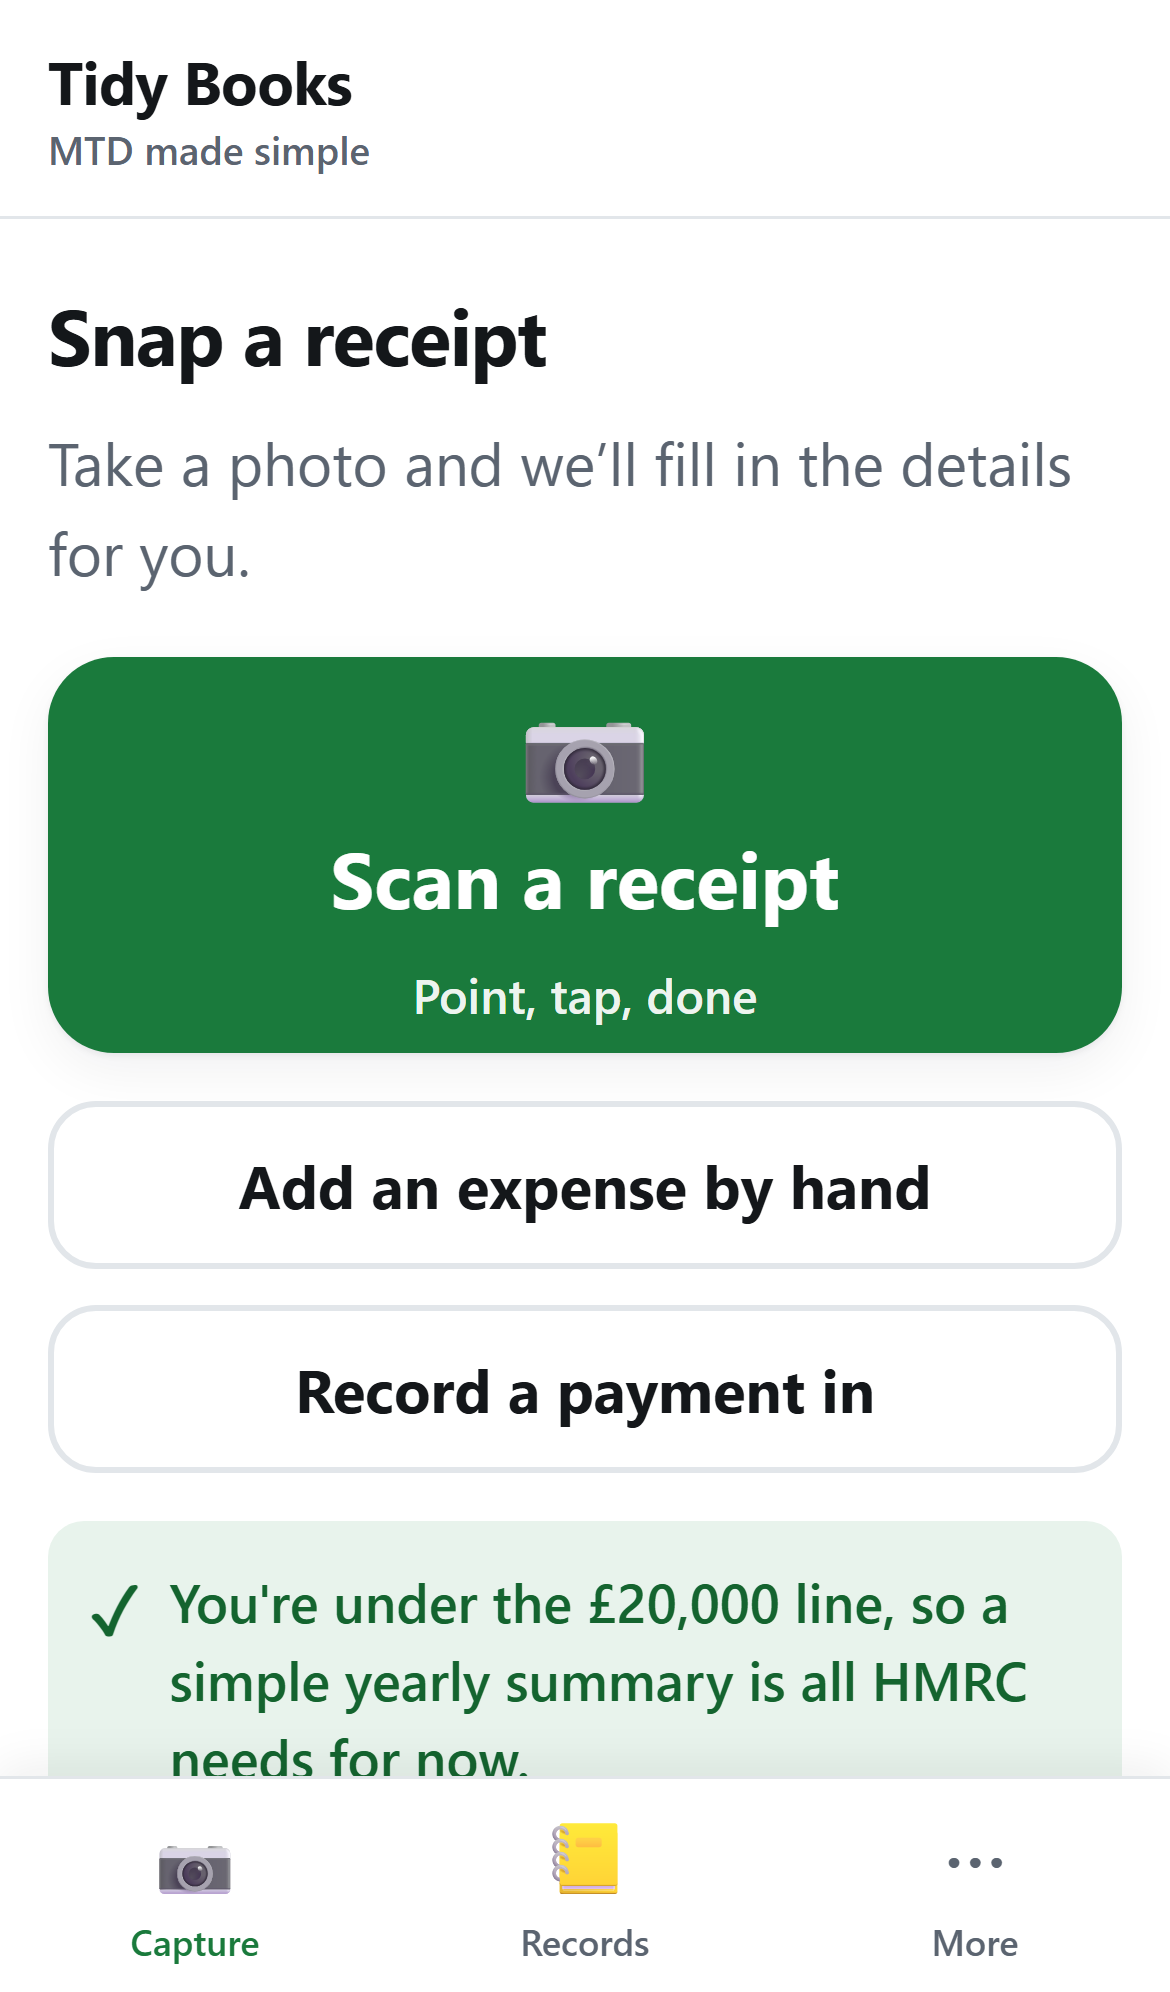
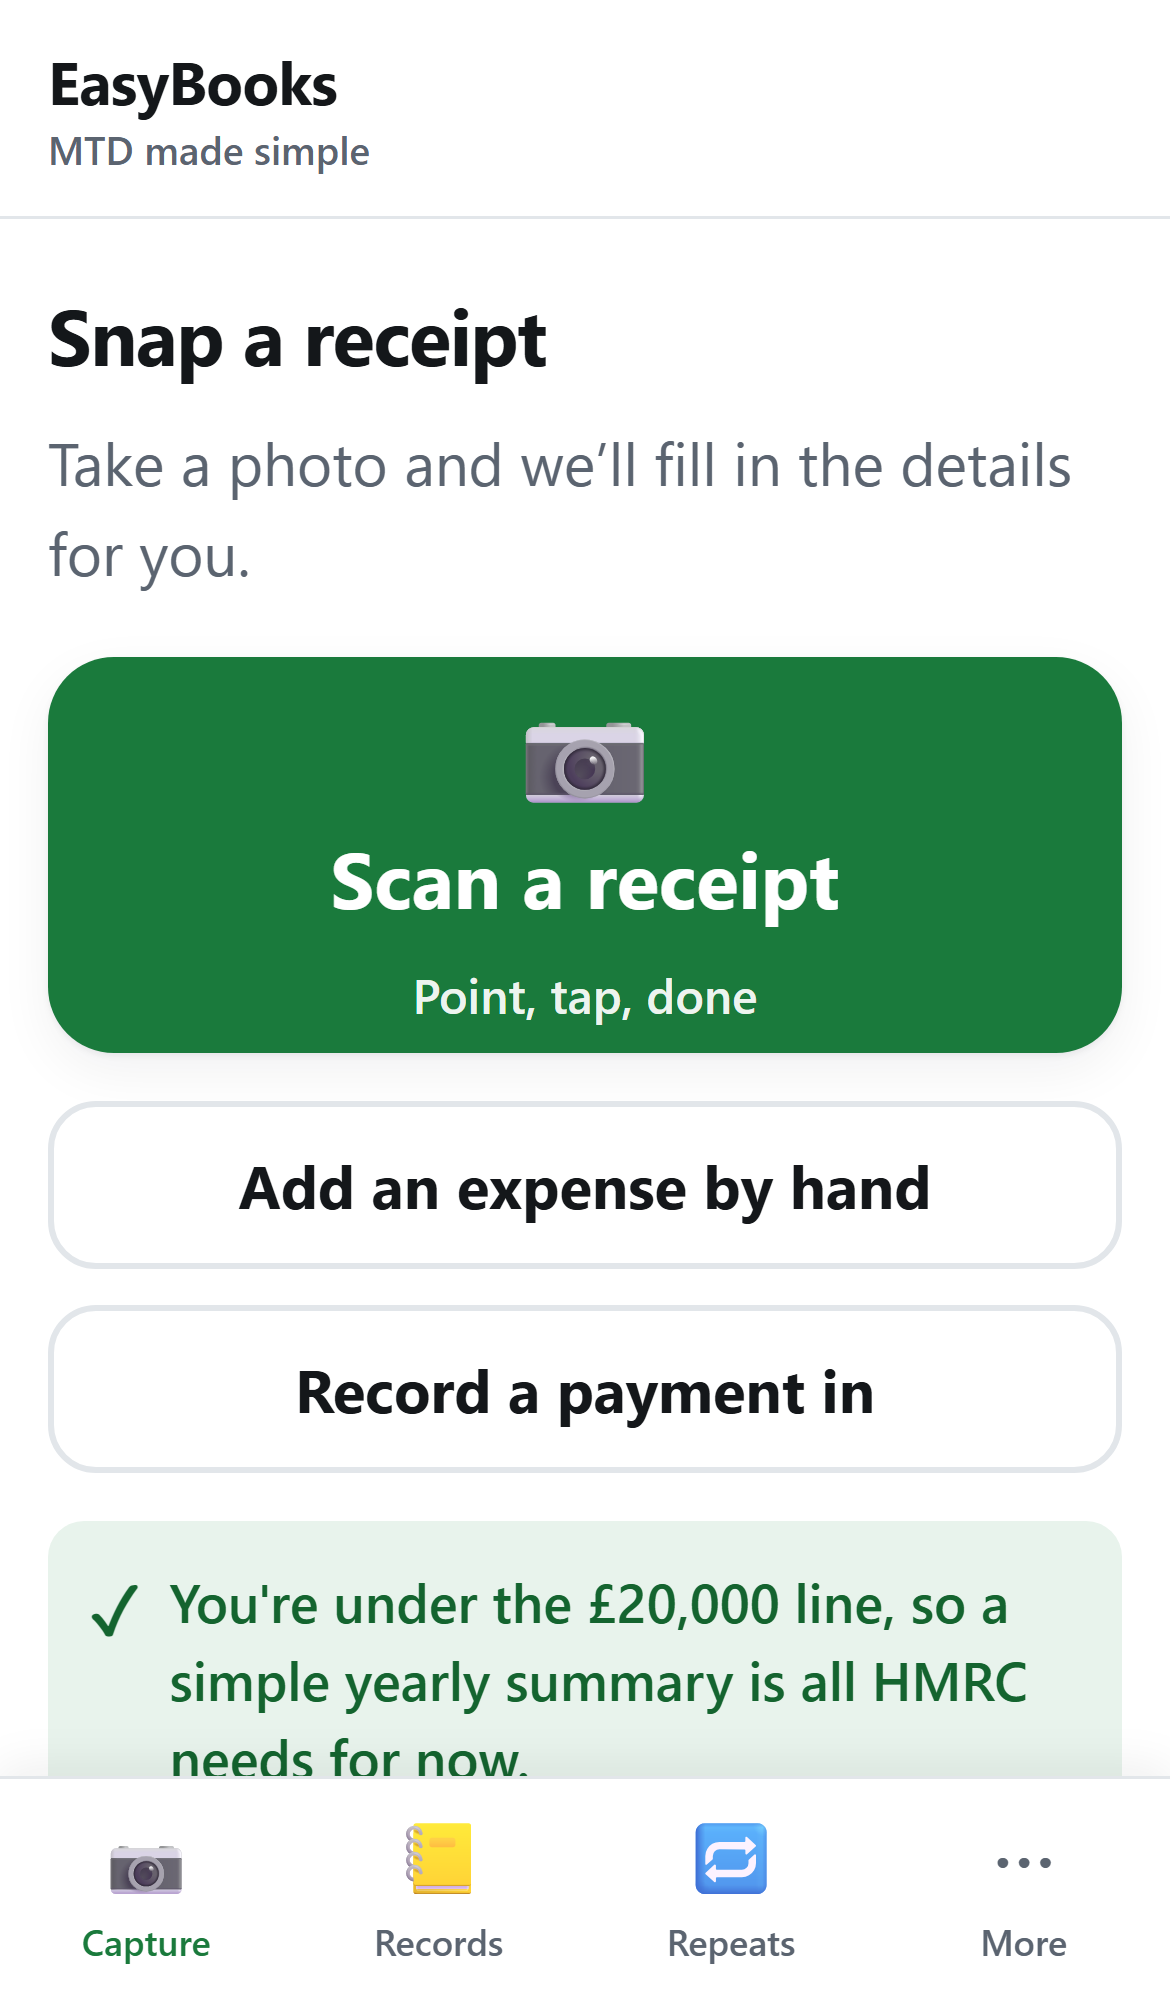
chore: finish Tidy Books to EasyBooks rebrand
Replace the leftover "Tidy Books" brand in the transactional email header
with "EasyBooks", update the internal storage self-test marker, and
regenerate the 6 README screenshots so they show the EasyBooks brand
instead of the old name.

diff --git a/app/emails.py b/app/emails.py
@@ -63,7 +63,7 @@ $preheader&nbsp;&zwnj;&nbsp;&zwnj;&nbsp;&zwnj;&nbsp;&zwnj;&nbsp;&zwnj;&nbsp;&zwn
         <table role="presentation" cellpadding="0" cellspacing="0" border="0" style="margin:0 0 24px;">
           <tr>
             <td style="background:$green;border-radius:9px;width:34px;height:34px;text-align:center;vertical-align:middle;color:#ffffff;font-size:19px;font-weight:700;font-family:$font;line-height:34px;">&#10003;</td>
-            <td style="padding-left:11px;font-family:$font;font-size:18px;font-weight:700;color:$ink;letter-spacing:-.2px;">Tidy&nbsp;Books</td>
+            <td style="padding-left:11px;font-family:$font;font-size:18px;font-weight:700;color:$ink;letter-spacing:-.2px;">EasyBooks</td>
           </tr>
         </table>
         $content

diff --git a/app/routes/core.py b/app/routes/core.py
@@ -47,7 +47,7 @@ def _r2_selftest() -> dict:
     key = f"_diag/selftest-{new_id()}.txt"
     try:
         st = get_storage()
-        st.put_bytes(key, b"tidybooks-selftest", "text/plain")
+        st.put_bytes(key, b"easybooks-selftest", "text/plain")
         read_back = st.exists(key)
         try:
             st.delete_prefix(key)  # best-effort cleanup; don't fail the test on it
